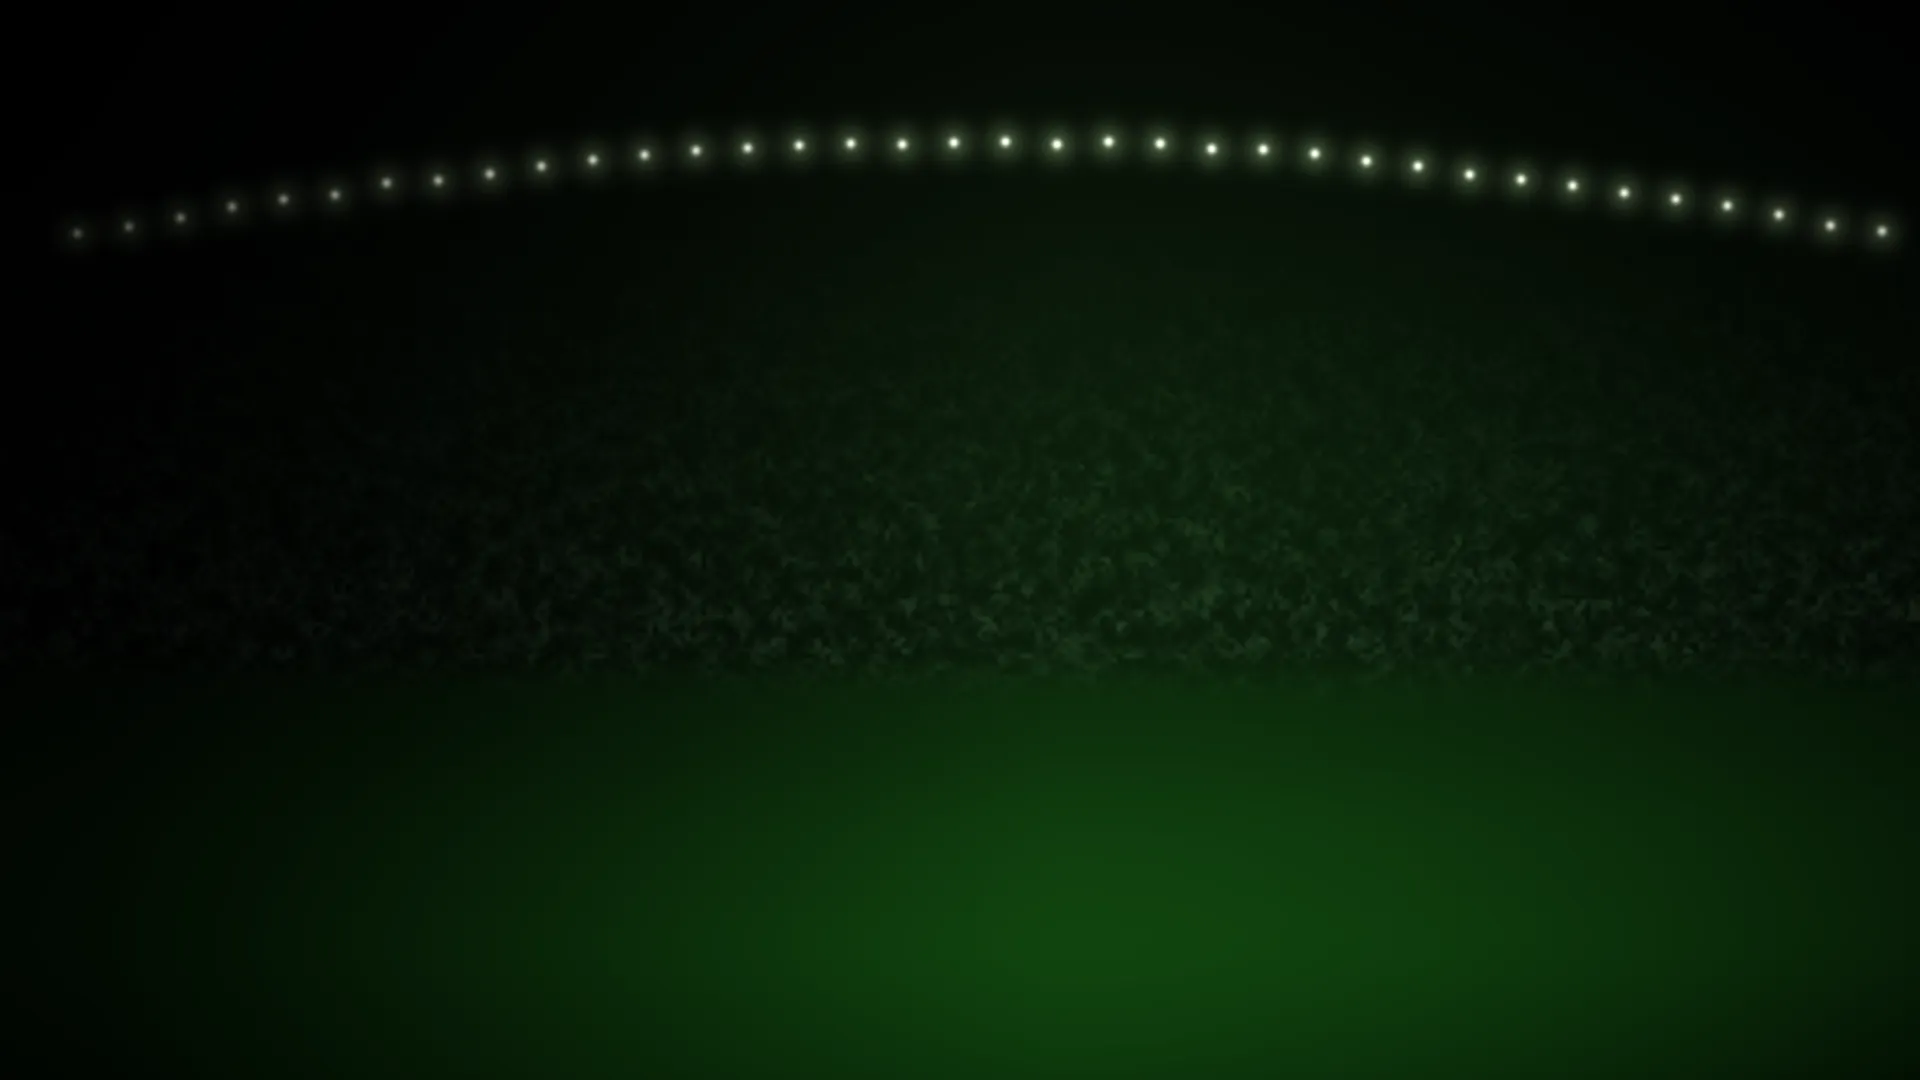
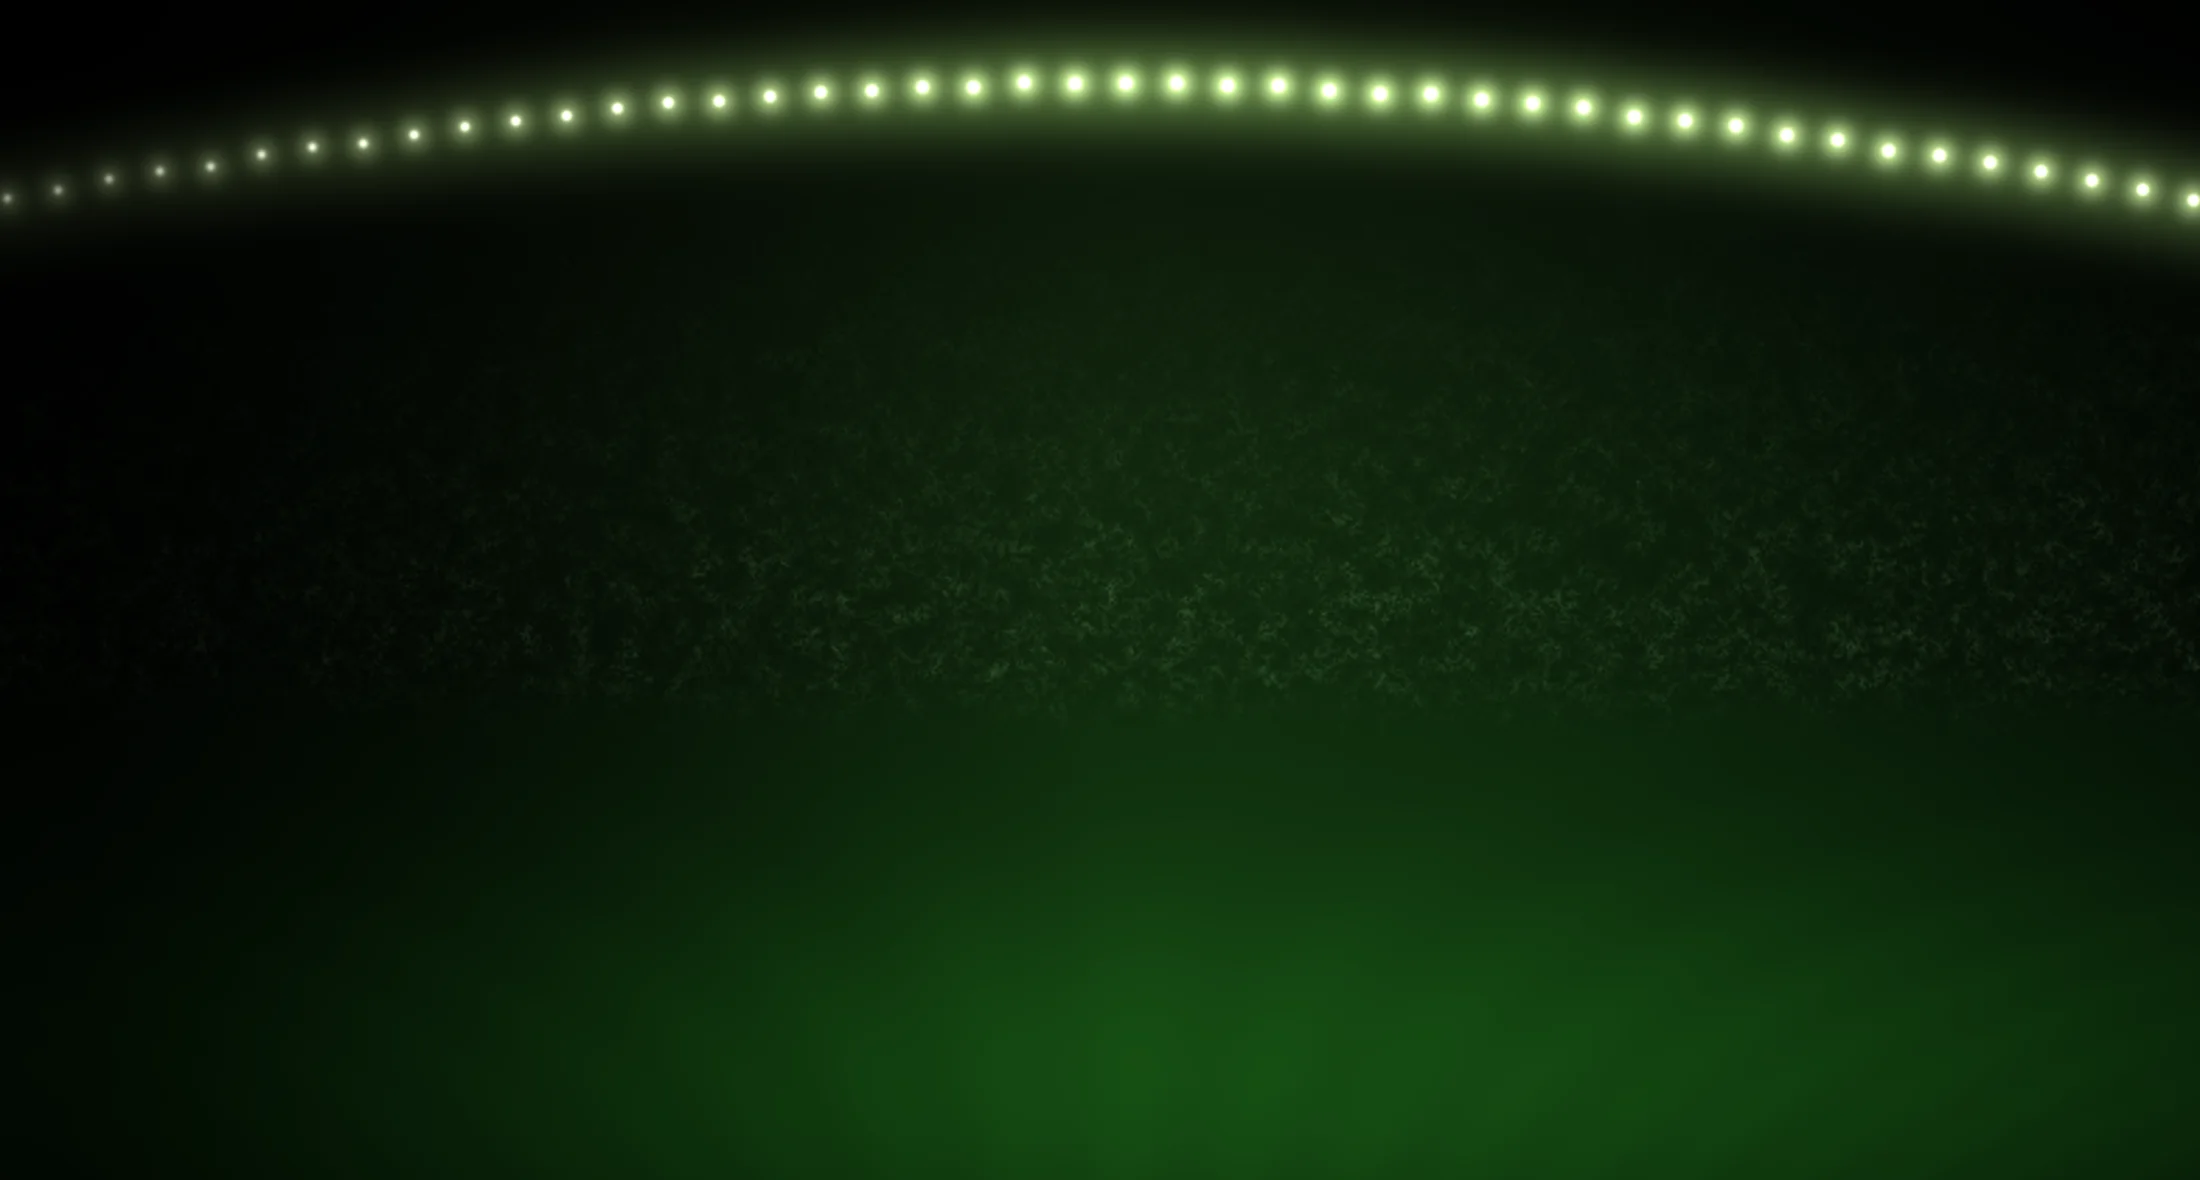
Refaz a arte da capa para seguir o modelo de referência
As camisas do hero passam a ser mockups em gola V nas cores dos times, no lugar
dos recortes das fotos de produto — é o que a referência mostra. São peças
genéricas, sem escudo, patrocinador ou marca; as fotos reais continuam onde
importam para vender, no catálogo e nas páginas de produto.

O fundo de estádio foi refeito com arco de refletores marcante, arquibancada e
gramado contido, e a fumaça verde ganhou definição e passou a se concentrar na
base das camisas. Toda a arte é gerada por script (numpy/Pillow), sem material
de terceiros.

Duas doses que passam fácil do ponto e ficaram anotadas no README: fumaça acima
de ~0.65 de opacidade vira parede verde e come a legibilidade do título; e o
gramado do fundo precisa ficar discreto, já que quem dá o verde forte é a
fumaça, não o campo.

Claude-Session: https://claude.ai/code/session_01FhZTF6ibyfHNs96LNrjM59

Changed region(s): [[0.0, 0.0, 1.0, 0.2139]]

diff --git a/index.html b/index.html
@@ -119,7 +119,7 @@
         class="hero-bg"
         src="assets/images/hero/hero-stadium-background.webp"
         alt=""
-        width="1920" height="1080"
+        width="2200" height="1180"
         fetchpriority="high"
         decoding="async"
       />
@@ -127,7 +127,7 @@
         class="hero-smoke"
         src="assets/images/hero/hero-smoke-green.webp"
         alt=""
-        width="1400" height="620"
+        width="1800" height="820"
         loading="eager"
         decoding="async"
         aria-hidden="true"
@@ -150,24 +150,24 @@
           <img
             class="hero-product hero-product-back hero-product-b"
             src="assets/images/hero/camisa-barcelona-hero.webp"
-            alt="Camisa titular do Barcelona 2025/2026 em destaque"
-            width="821" height="1060"
+            alt="Camisa azul e grená de clube europeu"
+            width="881" height="1013"
             loading="eager"
             decoding="async"
           />
           <img
             class="hero-product hero-product-back hero-product-a"
             src="assets/images/hero/camisa-real-madrid-hero.webp"
-            alt="Camisa titular do Real Madrid 2025/2026 em destaque"
-            width="850" height="1060"
+            alt="Camisa branca de clube europeu"
+            width="881" height="1013"
             loading="eager"
             decoding="async"
           />
           <img
             class="hero-product hero-product-main"
             src="assets/images/hero/camisa-flamengo-hero.webp"
-            alt="Camisa titular do Flamengo em destaque na coleção Primo's Sports"
-            width="790" height="1060"
+            alt="Camisa rubro-negra em destaque na coleção Primo's Sports"
+            width="881" height="1013"
             fetchpriority="high"
             decoding="async"
           />

diff --git a/assets/css/main.css b/assets/css/main.css
@@ -209,11 +209,11 @@ main { position: relative; z-index: 1; }
   position: absolute;
   inset: auto 0 0 0;
   width: 100%;
-  height: 70%;
+  height: 60%;
   object-fit: cover;
   object-position: center bottom;
   z-index: 2;
-  opacity: 0.52;
+  opacity: 0.62;
   mix-blend-mode: screen;
   pointer-events: none;
 }

diff --git a/README.md b/README.md
@@ -291,21 +291,27 @@ Cada card em "Escolha sua categoria" usa uma arte 4:3 em `assets/images/banners/
 
 ### Imagens do hero (primeira dobra da home)
 
-As três camisas do hero são recortes das fotos reais já usadas no catálogo. O fundo de
-estádio e a fumaça são **gerados por script** (`/tmp` durante o desenvolvimento, com
-numpy/Pillow) — não são fotos de terceiros, portanto não têm risco de licença.
+Toda a arte do hero é **gerada por script** (numpy/Pillow) — nada de terceiros, sem risco
+de licença. As três camisas são **mockups genéricos**: silhueta em gola V nas cores dos
+times, sem escudo, patrocinador ou marca. As fotos reais dos produtos continuam onde
+importam para vender: no catálogo e nas páginas de produto.
 
 | Arquivo | Uso | Peso |
 |---|---|---|
-| `camisa-flamengo-hero.webp` | camisa principal, em primeiro plano | 36 KB |
-| `camisa-real-madrid-hero.webp` | camisa de apoio, ao centro | 53 KB |
-| `camisa-barcelona-hero.webp` | camisa de apoio, mais ao fundo | 49 KB |
-| `hero-stadium-background.webp` | estádio noturno com refletores | 20 KB |
-| `hero-smoke-green.webp` | fumaça verde na base | 40 KB |
+| `camisa-flamengo-hero.webp` | mockup rubro-negro, em primeiro plano | 43 KB |
+| `camisa-real-madrid-hero.webp` | mockup branco, ao centro | 47 KB |
+| `camisa-barcelona-hero.webp` | mockup azul e grená, ao fundo | 42 KB |
+| `hero-stadium-background.webp` | estádio noturno com refletores | 39 KB |
+| `hero-smoke-green.webp` | fumaça verde na base | 84 KB |
 
 **Ordem das camadas do hero** (erra fácil): fundo `z-index: 0`, vinheta `.hero::before`
 `z-index: 1`, fumaça `z-index: 2`, conteúdo `z-index: 3`. Se a fumaça for para trás da
 vinheta ela simplesmente some.
+
+**Dose da fumaça e do gramado:** as duas passam fácil do ponto. Fumaça acima de ~0.65 de
+opacidade, ou cobrindo mais que a faixa inferior, vira uma parede verde que come a
+legibilidade do título. O gramado do fundo também: na referência ele é discreto e quem dá
+o verde forte é a fumaça, não o campo.
 
 Todos dentro da meta de performance do projeto (fundo < 250 KB, camisa principal < 180 KB,
 camisas de apoio < 120 KB, névoa < 80 KB). Para substituir por fotos reais, mantenha os
